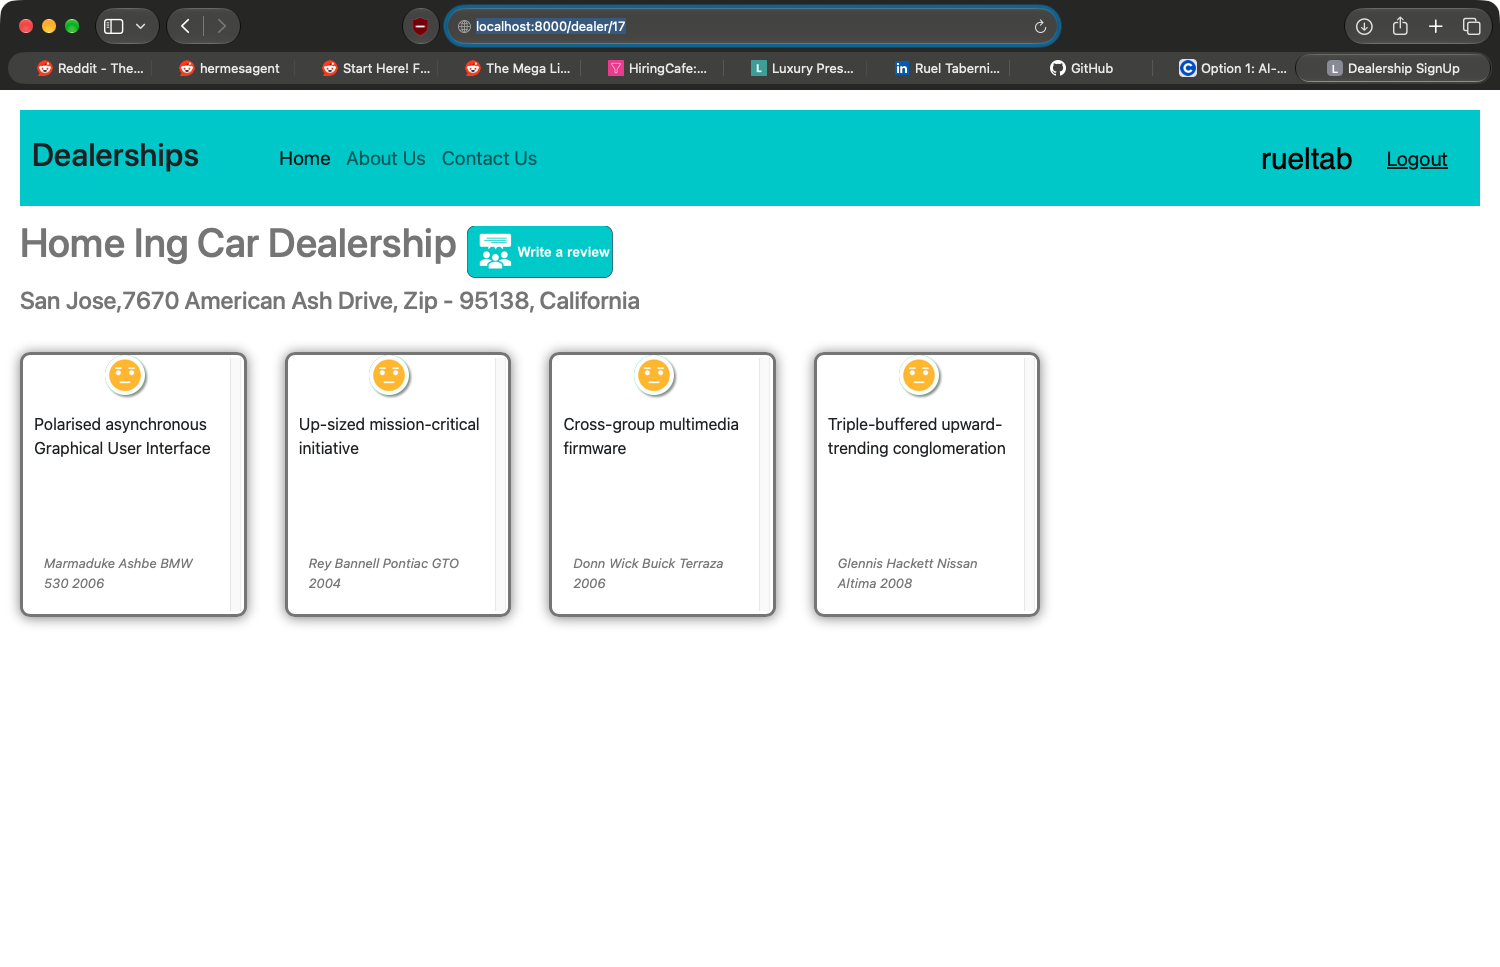
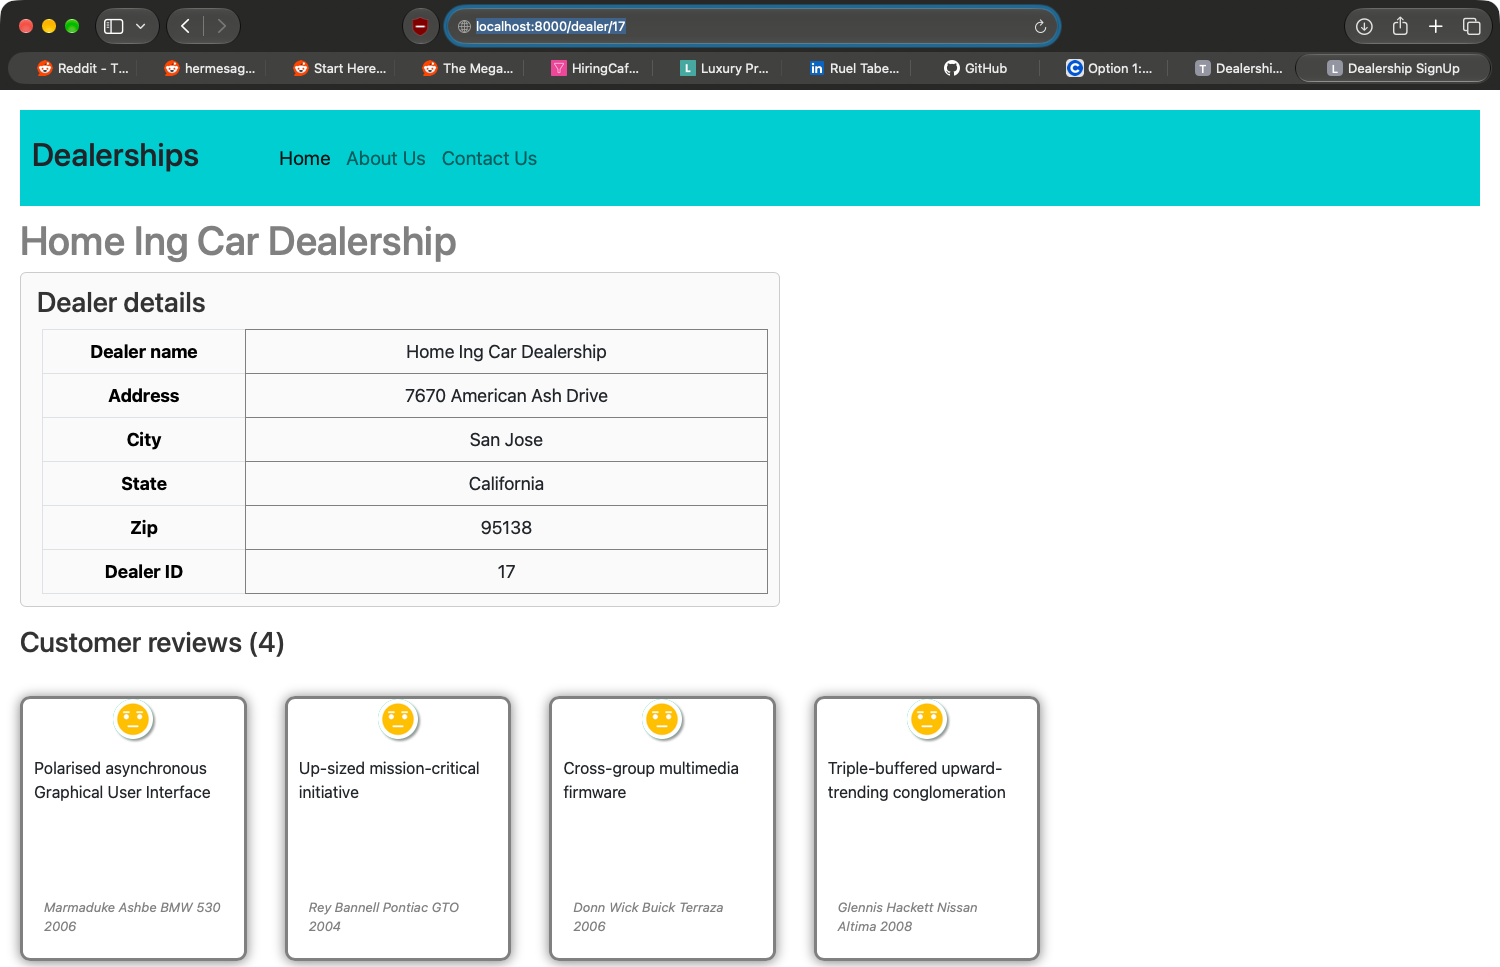
Show labelled dealer details beside reviews; add verbose CI run summary

diff --git a/server/frontend/src/components/Dealers/Dealer.jsx b/server/frontend/src/components/Dealers/Dealer.jsx
@@ -73,8 +73,24 @@ return(
       <Header/>
       <div style={{marginTop:"10px"}}>
       <h1 style={{color:"grey"}}>{dealer.full_name}{postReview}</h1>
-      <h4  style={{color:"grey"}}>{dealer['city']},{dealer['address']}, Zip - {dealer['zip']}, {dealer['state']} </h4>
       </div>
+
+      <div className="dealer_details" style={{border:"1px solid #ccc", borderRadius:"6px",
+        padding:"12px 16px", maxWidth:"760px", marginBottom:"18px", background:"#fafafa"}}>
+        <h3 style={{marginTop:"0", marginBottom:"10px", color:"#333"}}>Dealer details</h3>
+        <table className="table" style={{marginBottom:"0"}}>
+          <tbody>
+            <tr><th style={{width:"28%"}}>Dealer name</th><td>{dealer.full_name}</td></tr>
+            <tr><th>Address</th><td>{dealer.address}</td></tr>
+            <tr><th>City</th><td>{dealer.city}</td></tr>
+            <tr><th>State</th><td>{dealer.state}</td></tr>
+            <tr><th>Zip</th><td>{dealer.zip}</td></tr>
+            <tr><th>Dealer ID</th><td>{dealer.id}</td></tr>
+          </tbody>
+        </table>
+      </div>
+
+      <h3 style={{color:"#333", marginBottom:"10px"}}>Customer reviews ({reviews.length})</h3>
       <div class="reviews_panel">
       {reviews.length === 0 && unreviewed === false ? (
         <text>Loading Reviews....</text>
